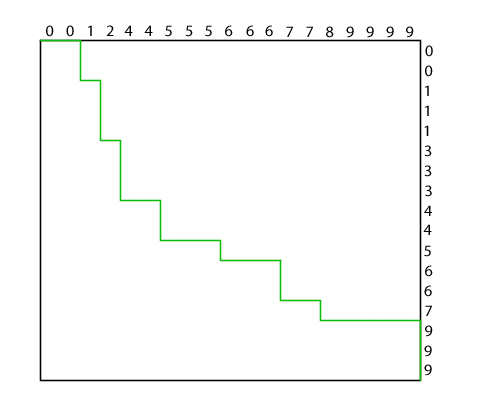
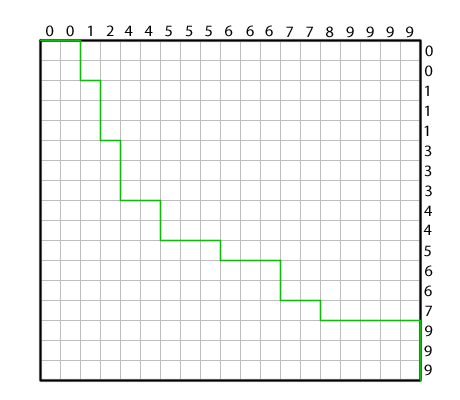
Added guidelines to mergepath illustration

diff --git a/bulkinsert.html b/bulkinsert.html
@@ -370,9 +370,9 @@ MGPU_HOST_DEVICE int MergePath(It1 a, int aCount, It2 b, int bCount, int diag,
 <p><code>MergePath</code> is a binary search over two sorted arrays that uses a constraint, <code>diag</code>, to reduce the search to one dimension. The search resembles the basic binary search in that we establish an interval over the array <code>a</code>, and loop while <code>begin &lt; end</code>. The primary difference is that instead of comparing <code>a[mid]</code> to a fixed query, we utilize the constraint and compare to <code>b[diag - 1 - mid]</code>.</p>
 <p>This routine is sound analytically but makes little intuitive sense. Fortunately a 2012 paper <em><u><a href="http://www.cc.gatech.edu/~ogreen3/_docs/Merge_Path_-_Parallel_Merging_Made_Simple.pdf">Merge Path - Parallel Merging Made Simple</a></u></em> by Saher Odeh, Oded Green, Zahi Mwassi, Oz Shmuli, and Yitzhak Birk, provides a visualization for this search to help understand and apply it in diverse situations.</p>
 <p class="important"><span class="idiom">Further Reading:</span> Read <u><em><strong>Merge Path - Parallel Merging Made Simple</strong></em></u> to better understand a partitioning strategy that's employed repeatedly in the MGPU algorithms.</p>
-<div class="figure"><img src="mp1.png" width="500" height="400" alt=" " /></div>
+<div class="figure"><img src="mp1.png" width="460" height="400" alt=" " /></div>
 <p>Consider merging the array on the top with the array on the right. Start with the cursor (a pair of pointers to the head of each list) at the upper-left corner. Compare the heads of the lists and advance in the direction of the smaller key; advance to the right if the keys are equal. The curve in green is the Merge Path. It is a visualization of the history of decisions in executing a serial merge.</p>
-<div class="figure"><img src="mp1diag.png" width="500" height="400" alt=" " /></div>
+<div class="figure"><img src="mp1diag.png" width="460" height="400" alt=" " /></div>
 <p>We draw red cross-diagonals over the Merge Path curve. The portion of the path enclosed by consecutive cross-diagonals map the intervals from each source array that contribute to one interval of the merge output. In this example, the first partition is assigned keys 0, 0 from A and 0, 0 from B; the second interval is assigned key 1 from A and keys 1, 1, 1 from B; etc. All partitions are assigned exactly four inputs (and because of the nature of the merge function, four outputs), and each partition can be processed in parallel without communication. If keys in A and B match, the use of use of lower-bound semantics in the <code>MergePath</code> binary search assigns the matching keys in A to the earlier partitions and the matching keys in B to the later partitions, which agrees with the behavior of <code>std::merge</code>.</p>
 <div class="figure"><img src="mp2.png" width="420" height="330" alt=" " /></div>
 <p>This illustration shows a merge divided into six partitions of equal size plus one partial partition at the lower-right. The eight cross-diagonals (in red) intersect the Merge Path to establish tile partitions (in black). Because the Merge Path can only move down and right (and not diagonal), the length of the curve bounded by two consecutive cross-diagonals is constant and equal to the inter-diagonal spacing. The intersection of the Merge Path projects upwards to define the interval of values in A inside the partition; it projects to the right to define the interval of values in B. The number of steps required for the binary search is the log of the cross-diagonal length.</p>
